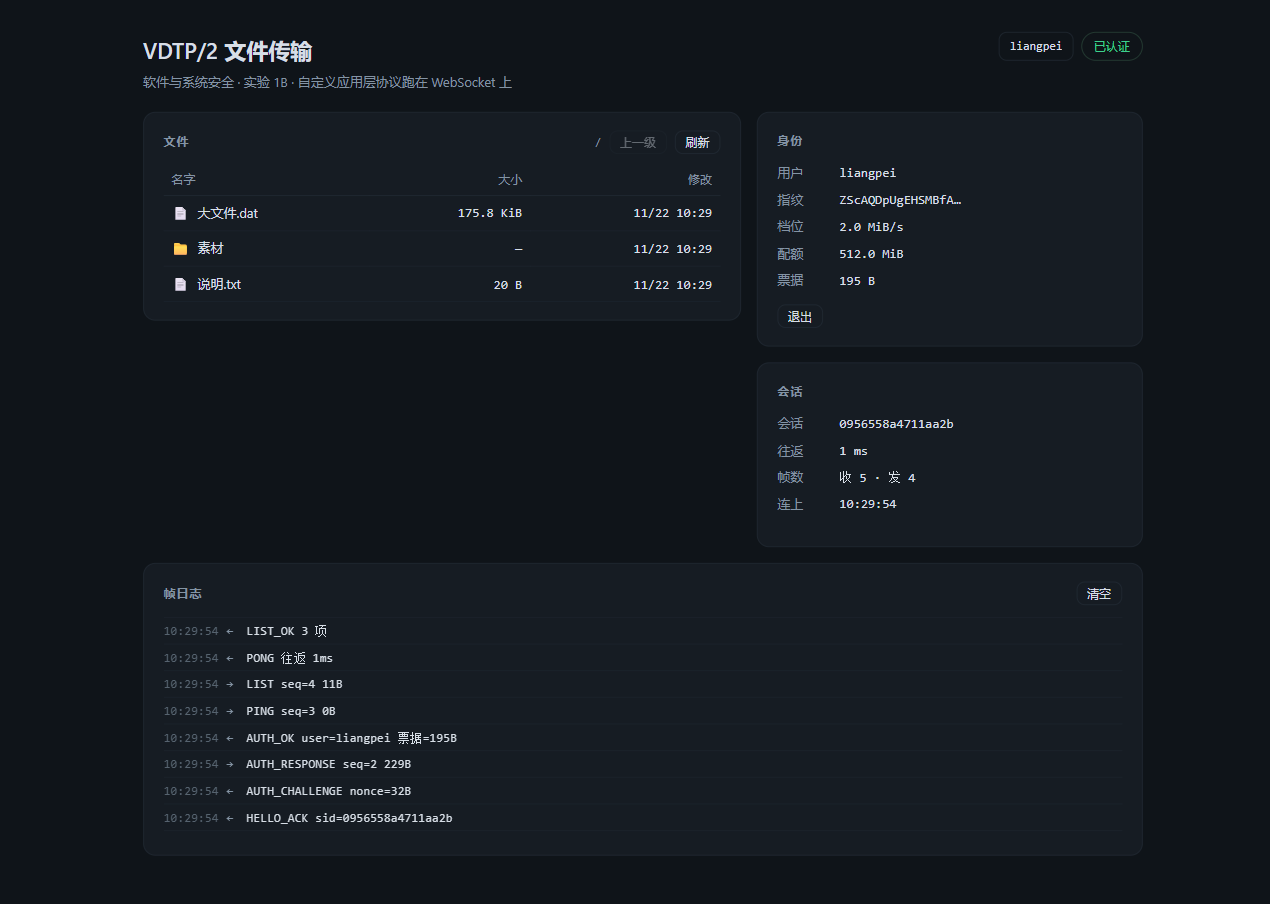
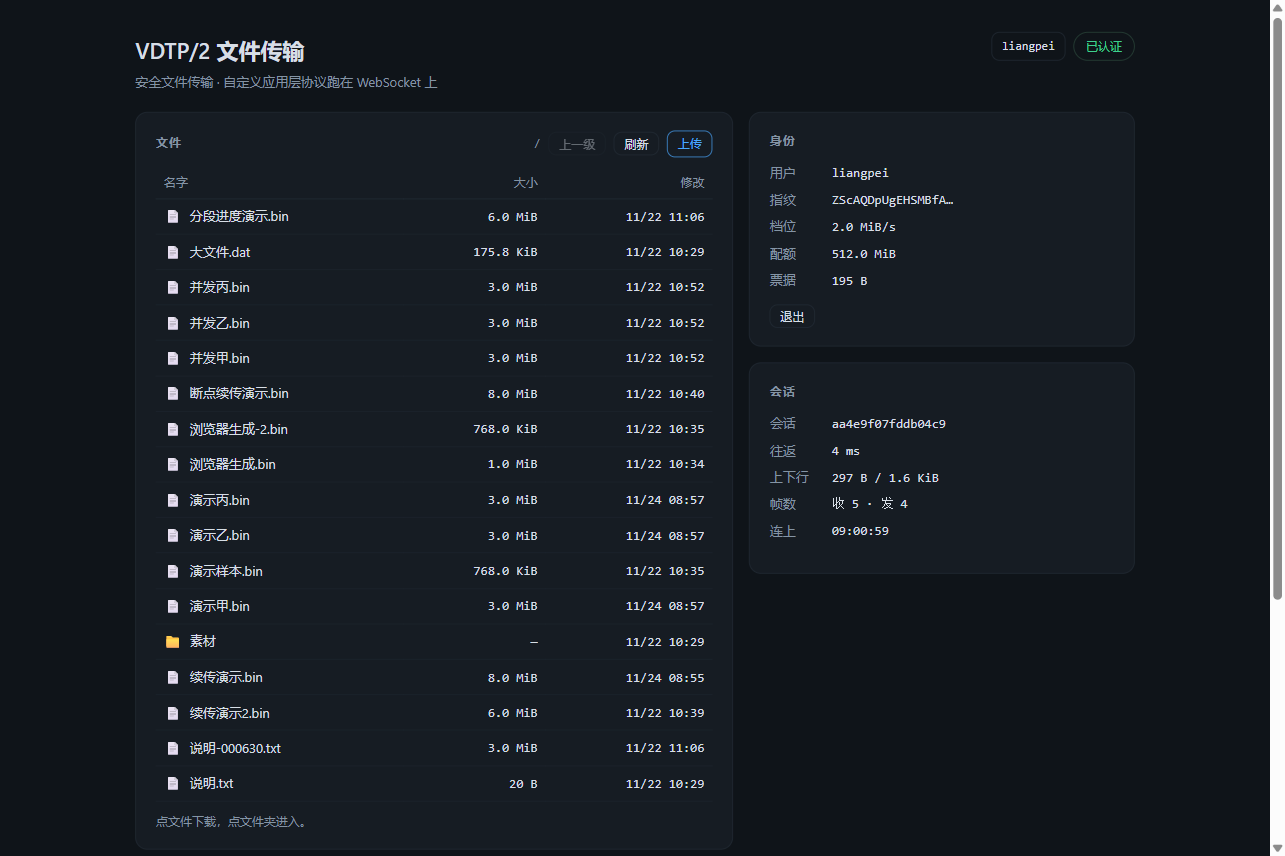
chore: 项目首页与界面文案去掉课程抬头，截图更新

diff --git a/frontend/src/App.vue b/frontend/src/App.vue
@@ -441,7 +441,7 @@ function upOne() {
   listFiles(parts.join('/'))
 }
 
-// 开发期断线演示用：在控制台或自动化里调用 window.__vdtp.drop() 掐掉连接。
+// 开发期断线复现用：在控制台或自动化里调用 window.__vdtp.drop() 掐掉连接。
 if (import.meta.env.DEV) {
   window.__vdtp = { drop: () => ws && ws.close() }
 }
@@ -463,7 +463,7 @@ function leave() {
     <header class="head">
       <div>
         <h1>VDTP/2 文件传输</h1>
-        <p class="sub">软件与系统安全 · 实验 1B · 自定义应用层协议跑在 WebSocket 上</p>
+        <p class="sub">安全文件传输 · 自定义应用层协议跑在 WebSocket 上</p>
       </div>
       <div class="who">
         <span v-if="entered" class="chip mono">{{ user }}</span>

diff --git a/backend/tools/inject_demo.py b/backend/tools/inject_demo.py
@@ -1,4 +1,4 @@
-"""注入演示：拿常见载荷打注册接口与路径检查，看服务端怎么挡。
+"""注入用例：拿常见载荷打注册接口与路径检查，看服务端怎么挡。
 
     python3 tools/inject_demo.py [http://127.0.0.1:8000]
 

diff --git a/backend/tools/tier.py b/backend/tools/tier.py
@@ -1,4 +1,4 @@
-"""改用户档位，给限速演示用。
+"""改用户档位。
 
     python3 tools/tier.py <用户名> free|vip
 """

diff --git a/README.md b/README.md
@@ -1,6 +1,6 @@
 # VDTP/2
 
-安全的文件传输 Web 应用：自定义应用层协议跑在 WebSocket 二进制帧上，浏览器就是客户端。软件与系统安全实验 1B 的实现。
+安全的文件传输 Web 应用：自定义应用层协议跑在 WebSocket 二进制帧上，浏览器就是客户端。
 
 ![登录与文件列表](docs/login.png)
 
@@ -92,4 +92,4 @@ docs/
 
 运行数据放在仓库外：`$XDG_DATA_HOME/vdtp`，缺省 `~/.local/share/vdtp`，用 `VDTP_DATA` 可以改。里面有 `vdtp.db`、`ticket.key` 与 `users/<用户名>/`。
 
-演示证书在 `~/.config/vdtp/certs`（`gen_certs.sh` 生成，参数可改目录）；容器把数据放在 `vdtp-data` 卷里。两处都不进仓库。
+开发证书在 `~/.config/vdtp/certs`（`gen_certs.sh` 生成，参数可改目录）；容器把数据放在 `vdtp-data` 卷里。两处都不进仓库。
